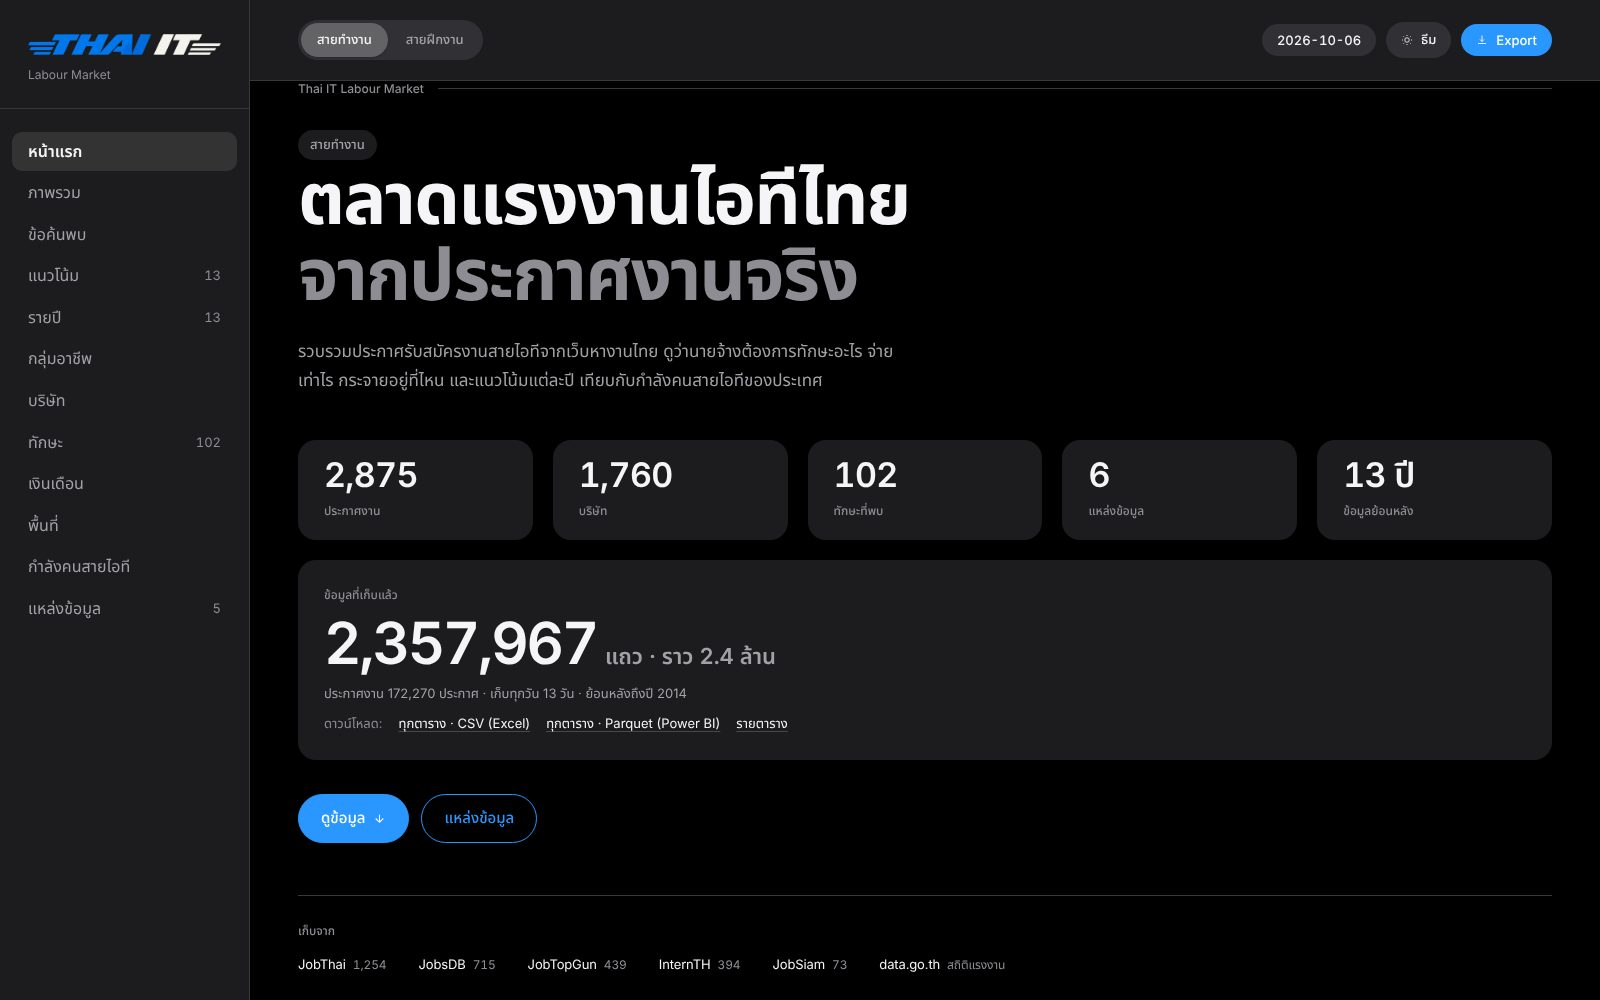
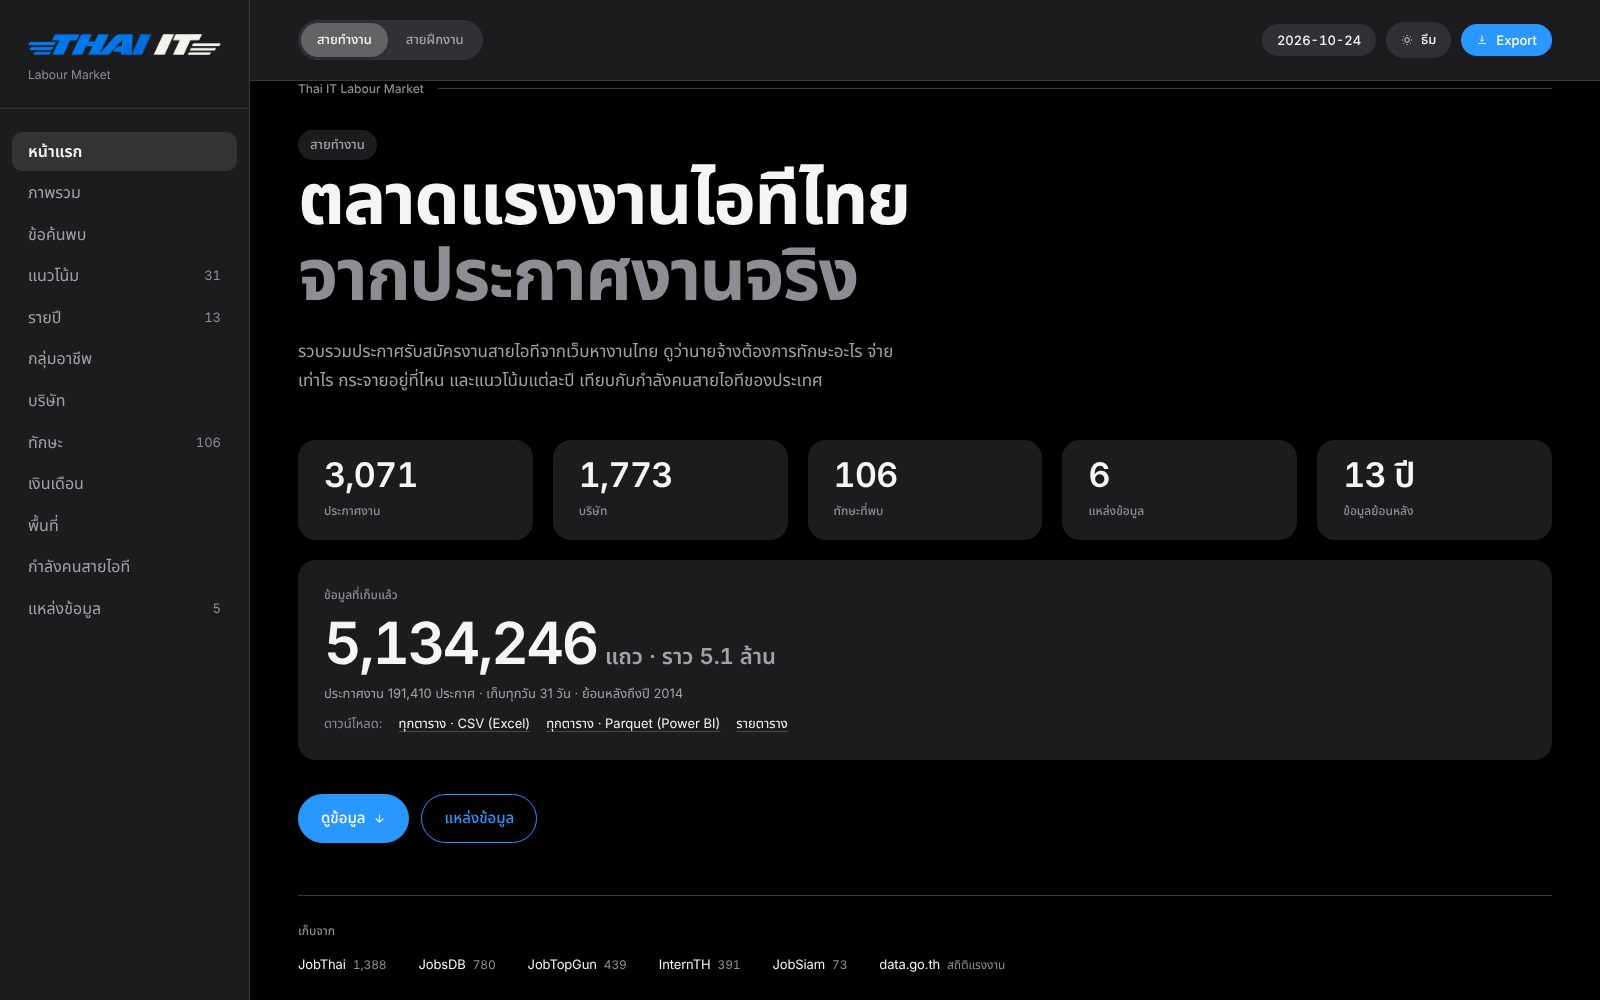
Refresh Thai IT Jobs with the 2026-10-24 data release
Re-imported the new data-latest release (snapshot 2026-10-24: 3,071 IT
jobs, 633 internship posts, 5,134,246 rows) and retook the five
dashboard shots. The row count is updated in the project text, the
pipeline step and the hero stat (2.2M → 5.1M).

Claude-Session: https://claude.ai/code/session_016YZyZUgqQbWdwcfXPk8ntQ

diff --git a/src/data/content.ts b/src/data/content.ts
@@ -208,8 +208,8 @@ export const PROJECTS: Project[] = [
     cat: 'data',
     name: 'Thai IT Jobs 2014–2026',
     th: 'ตลาดแรงงานไอทีไทย — Big Data + Power BI',
-    desc: 'Pipeline เก็บและวิเคราะห์ประกาศงานไอทีไทยย้อนหลัง 13 ปี จาก 10 แหล่ง รวม 2,213,972 แถว พร้อม NLP, ML และ Power BI',
-    overview: 'Pipeline เก็บและวิเคราะห์ประกาศงานไอทีไทยย้อนหลัง 13 ปี จาก 10 แหล่ง รวม 2,213,972 แถว ทำความสะอาดข้อมูล จัดหมวดด้วย NLP ภาษาไทย สร้างโมเดล ML แล้วแสดงผลบน Power BI และเว็บแดชบอร์ด',
+    desc: 'Pipeline เก็บและวิเคราะห์ประกาศงานไอทีไทยย้อนหลัง 13 ปี จาก 10 แหล่ง รวม 5,134,246 แถว พร้อม NLP, ML และ Power BI',
+    overview: 'Pipeline เก็บและวิเคราะห์ประกาศงานไอทีไทยย้อนหลัง 13 ปี จาก 10 แหล่ง รวม 5,134,246 แถว ทำความสะอาดข้อมูล จัดหมวดด้วย NLP ภาษาไทย สร้างโมเดล ML แล้วแสดงผลบน Power BI และเว็บแดชบอร์ด',
     highlights: [
       'Crawler รายวัน (ตีสอง) จาก JobThai, JobTopGun, JobPub, JobsDB, InternTH ฯลฯ + Common Crawl + data.go.th',
       'เคารพ robots.txt และตัดข้อมูลติดต่อบุคคล (PII) ออกก่อนเก็บ',
@@ -220,7 +220,7 @@ export const PROJECTS: Project[] = [
     stack: ['Python', 'DuckDB', 'Parquet', 'pandas', 'PyThaiNLP', 'LightGBM', 'FastAPI', 'Apache Airflow', 'Apache Spark', 'Docker', 'Power BI', 'pytest'],
     type: 'Data Engineering / BI',
     status: 'PRIVATE DATA',
-    metrics: [['Rows', '2,213,972'], ['Sources', '10'], ['Tests', '119']],
+    metrics: [['Rows', '5,134,246'], ['Sources', '10'], ['Tests', '119']],
     year: '2569',
     note: 'repo เป็น private และข้อมูลห้ามเผยแพร่ — แสดงเฉพาะภาพรวมและตัวเลขสรุป (ภาพหน้าจอจากแดชบอร์ดที่รันบนเครื่อง)',
     images: [
@@ -387,7 +387,7 @@ export const AI_ACTS: AiAct[] = [
     lead: 'Clean the',
     word: 'pipeline',
     shape: 'etl.helix',
-    desc: 'จัดลำดับงานด้วย Apache Airflow — รวมข้อมูล ตัดซ้ำ ผ่าน quality gate ก่อน publish (2.2 ล้านแถวใน Thai IT Jobs)',
+    desc: 'จัดลำดับงานด้วย Apache Airflow — รวมข้อมูล ตัดซ้ำ ผ่าน quality gate ก่อน publish (5.1 ล้านแถวใน Thai IT Jobs)',
     projects: ['thai-it-jobs', 'fx-multi-source-pipeline'],
   },
   {

diff --git a/src/components/Hero.tsx b/src/components/Hero.tsx
@@ -20,7 +20,7 @@ const STATS = [
   { n: WORKS.length, label: 'ผลงานในพอร์ต', suffix: '' },
   { n: 4, label: 'ระบบที่ใช้งานจริง', suffix: '' },
   { n: 443, label: 'test cases อัตโนมัติ', suffix: '' },
-  { n: 2.2, label: 'ล้านแถวใน data pipeline', suffix: 'M', decimals: 1 },
+  { n: 5.1, label: 'ล้านแถวใน data pipeline', suffix: 'M', decimals: 1 },
 ];
 
 export default function Hero() {
